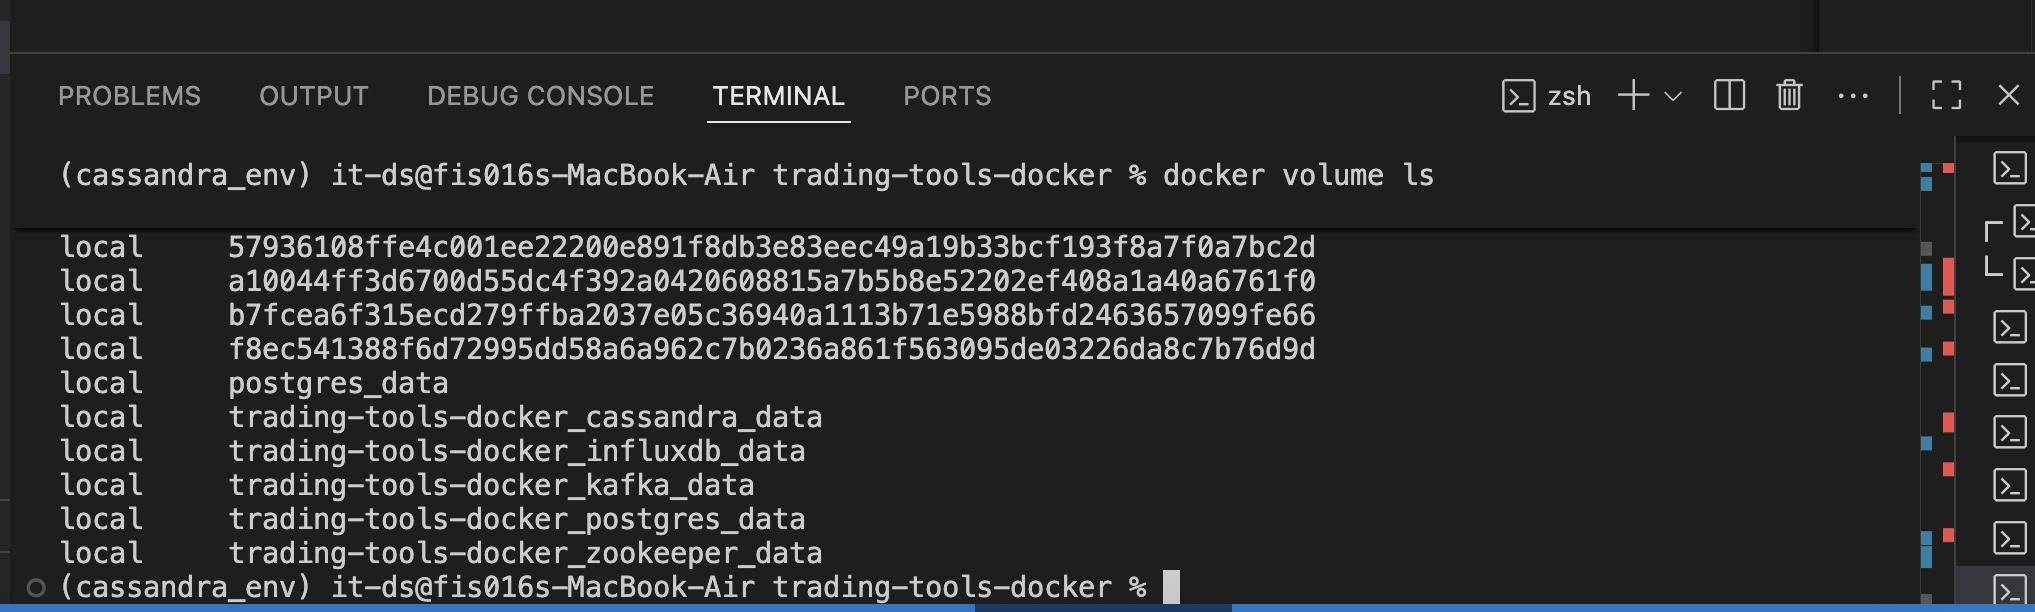
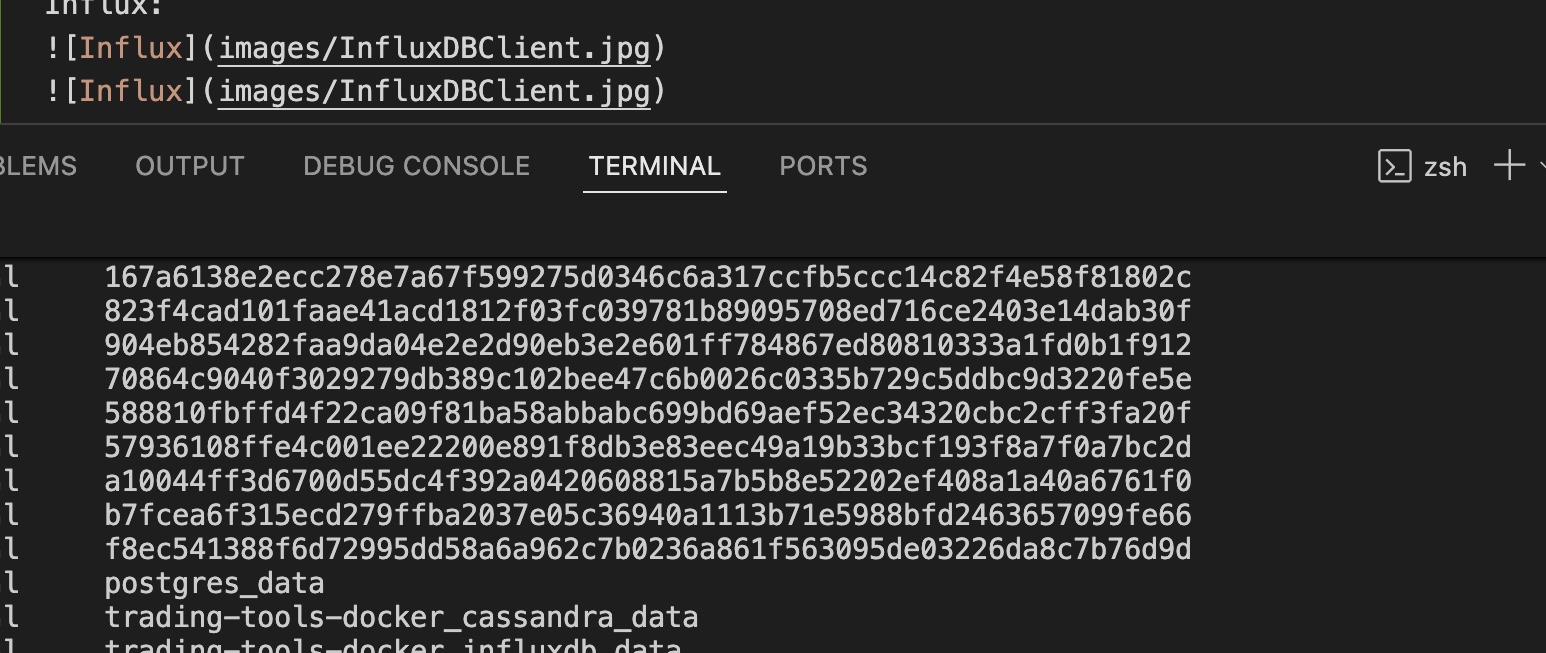
“update

diff --git a/README.md b/README.md
@@ -124,7 +124,7 @@ Each is independent and serves a different type of data:
 - InfluxDB Time-Series database for storing real-time data (e.g., currency prices every second).
 
 
-relationships between th server :
+🔗relationships between th server :
 ![services](images/Diagram.jpg)
 
 The image depicts a trading system consisting of several services. Each service runs within its own container.
@@ -141,7 +141,7 @@ It is the interface through which we write code and analyze data.
 
 
 ## Step 2: Create a Project Folder
-## docker-compose.yaml
+##  Create the docker-compose.yml Filed
 ![dockerfile-compose](images/docker-compose.png)
 
 What did i do?
@@ -156,52 +156,77 @@ In addition.
 Inside the file, we wrote for each database:
 - The container name
 - The port (so we could access it from outside)
-- The username and password (to secure the connection)___
+- The username and password (to secure the connection)
+___
+witre the comende :
 
 docker-compose up -d
 
 Docker will:
-Download images (ready-made software) from the internet.
-Create containers for each tool.
-Connect them together (like a small network between them).
-Open ports for you so you can access them from your device.
+- Download images (ready-made software) from the internet.
+- Create containers for each tool.
+- Connect them together (like a small network between them).
+- Open ports for you so you can access them from your device.
+
+![docker_ps](images/docker_ps.jpg)
 
 
+## Step 3:Verify Everything is Running
 
-The tools the doctor gave you:
+docker ps → This will list all running containers. 
 
-
-
-
-4. Verify Everything is Running
-
-docker ps → This will list all running containers. You should see zookeeper, kafka, cassandra, postgres, influxdb, anaconda.
 ![Running](images/Running.jpg)
 
 
-
-![docker_ps](images/docker ps.jpg)
-
+## Step 4: Access Each Service
 
 
-![docker-Desktop](images/Docker.png)
+![docker-Desktop](images/Docker.jpg)
 
 
+kafka: docker exec -it trading-tools-docker-kafka-1 bash
+![postgresDB](images/postgresDB.jpg)
 
-Postgres: SQL database.
-Environment: Login settings:
-User: admin
-Password: admin
-Database name: tradingdb
+postgresDB: docker exec -it trading-tools-docker-postgres-1 psql -U admin
+![postgresDB](images/postgresDB.jpg)
 
+cassandra: docker exec -it trading-tools-docker-cassandra-1 cqlsh
+![postgresDB](images/postgresDB.jpg)
 
-![Setup.InfluxDB](images/Setup.jpg)
-docker run -d --name influxdb -p 8086:8086 influxdb
-
+nfluxDB: Open your browser at http://localhost:8086 Login: admin / passeword :rema2002
+![Setup](images/Setup.jpg)
 
 ![InfluxDB_interface](images/InfluxDB.jpg)
 
 
+Anaconda / Jupyter :Anaconda is running as a Jupyter server on port :http://localhost:8888
+![jupyter](images/jupyter.jpg)
+![token](images/token.jpg)
+![jupyter_interfase](images/jupyter_interfase.jpg)
 
+
+## Step 5: Access Each Service
+![postgres](images/check.jpg)
 ![postgres](images/postgres.jpg)
+
+postgres:
+![postgres](images/postgres.jpg)
+cassandra:
+![cassandra](images/cassandra.jpg)
+Influx:
+From inside Anaconda (Python code)
+![Influx](images/InfluxDBClient.jpg)
+![Influx](images/API_token.jpg)
+ 
+## Step 6: Volumes
+In Docker, when you stop a container (the temporary application running Docker), all the data inside it is erased unless you store it somewhere permanent.
+
+That's why we use something called Volumes, which is persistent storage that persists even if the container is stopped or deleted.
+![volume](images/volume.jpg)
+
+docker volume ls
+This command displays all volumes currently present in the system.
+
+![jupyter_interfase](images/docker_volume.jpg)
+
 
